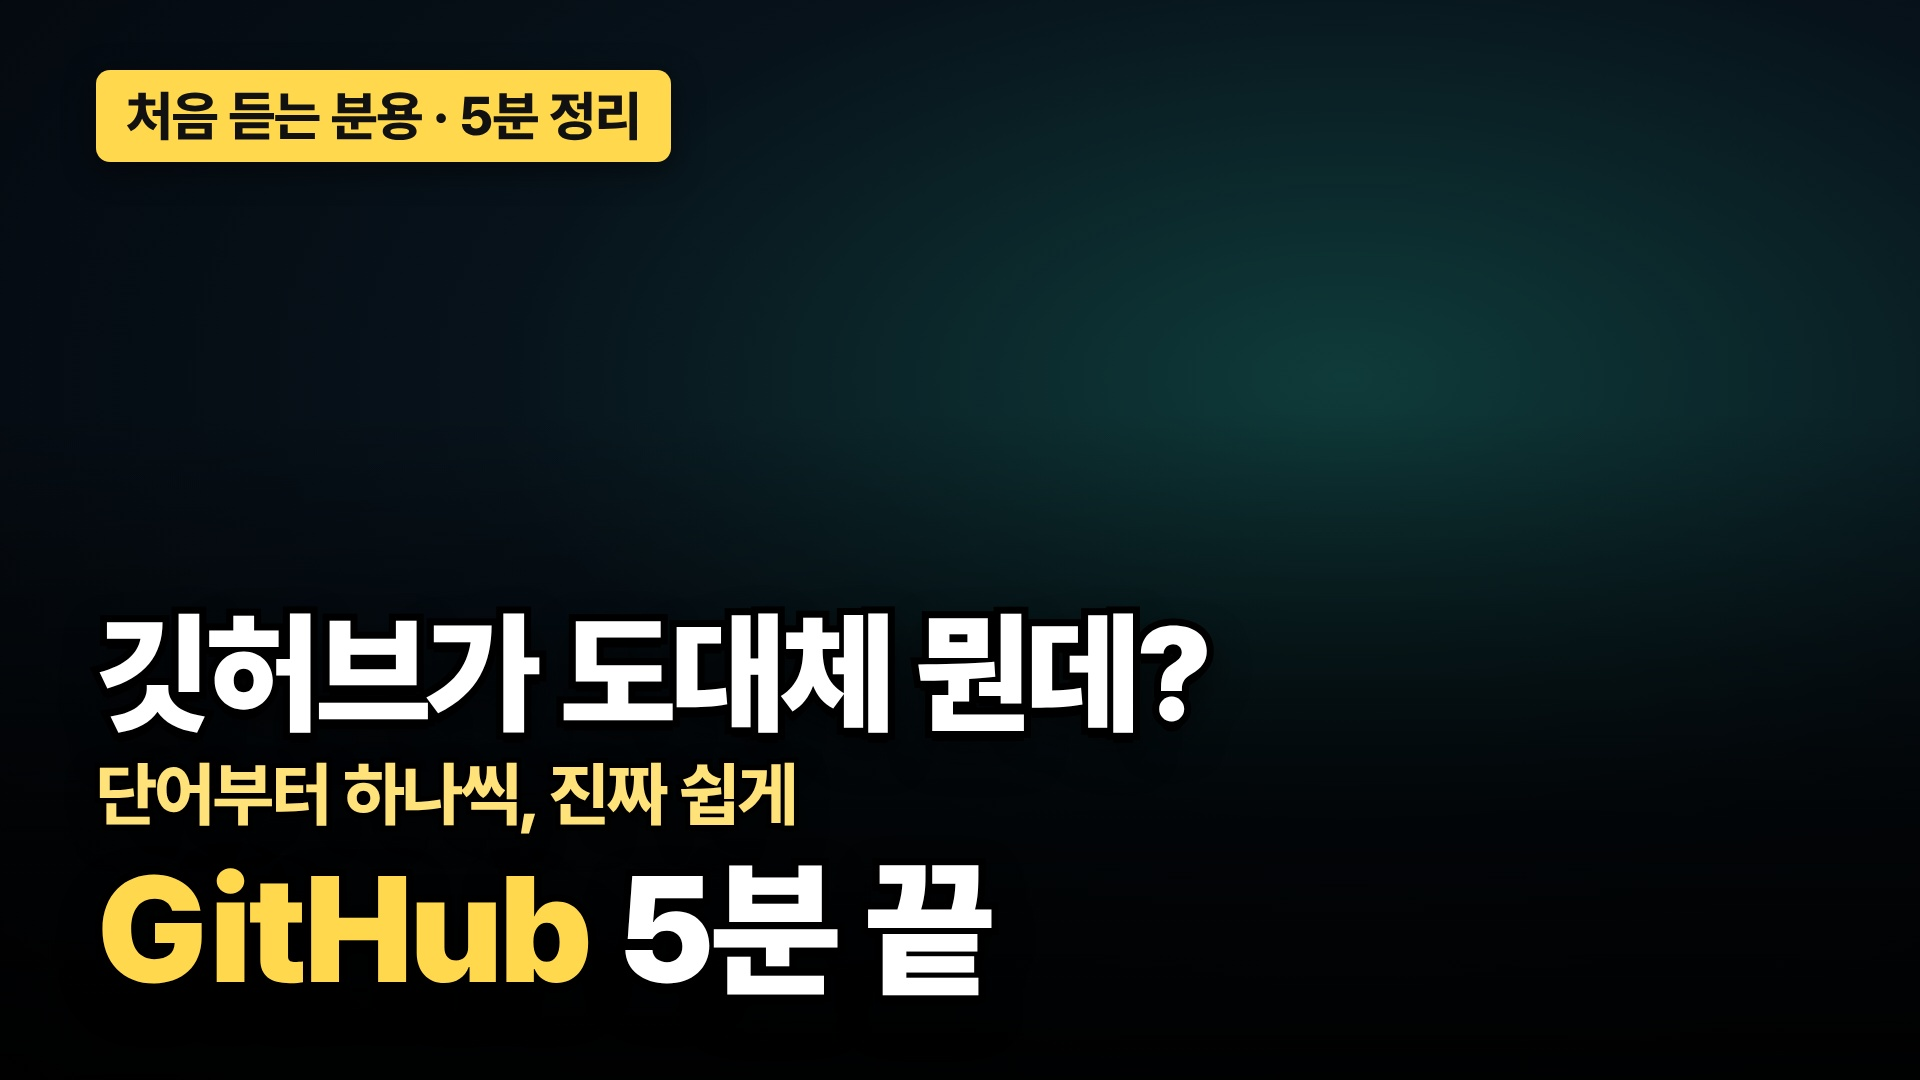
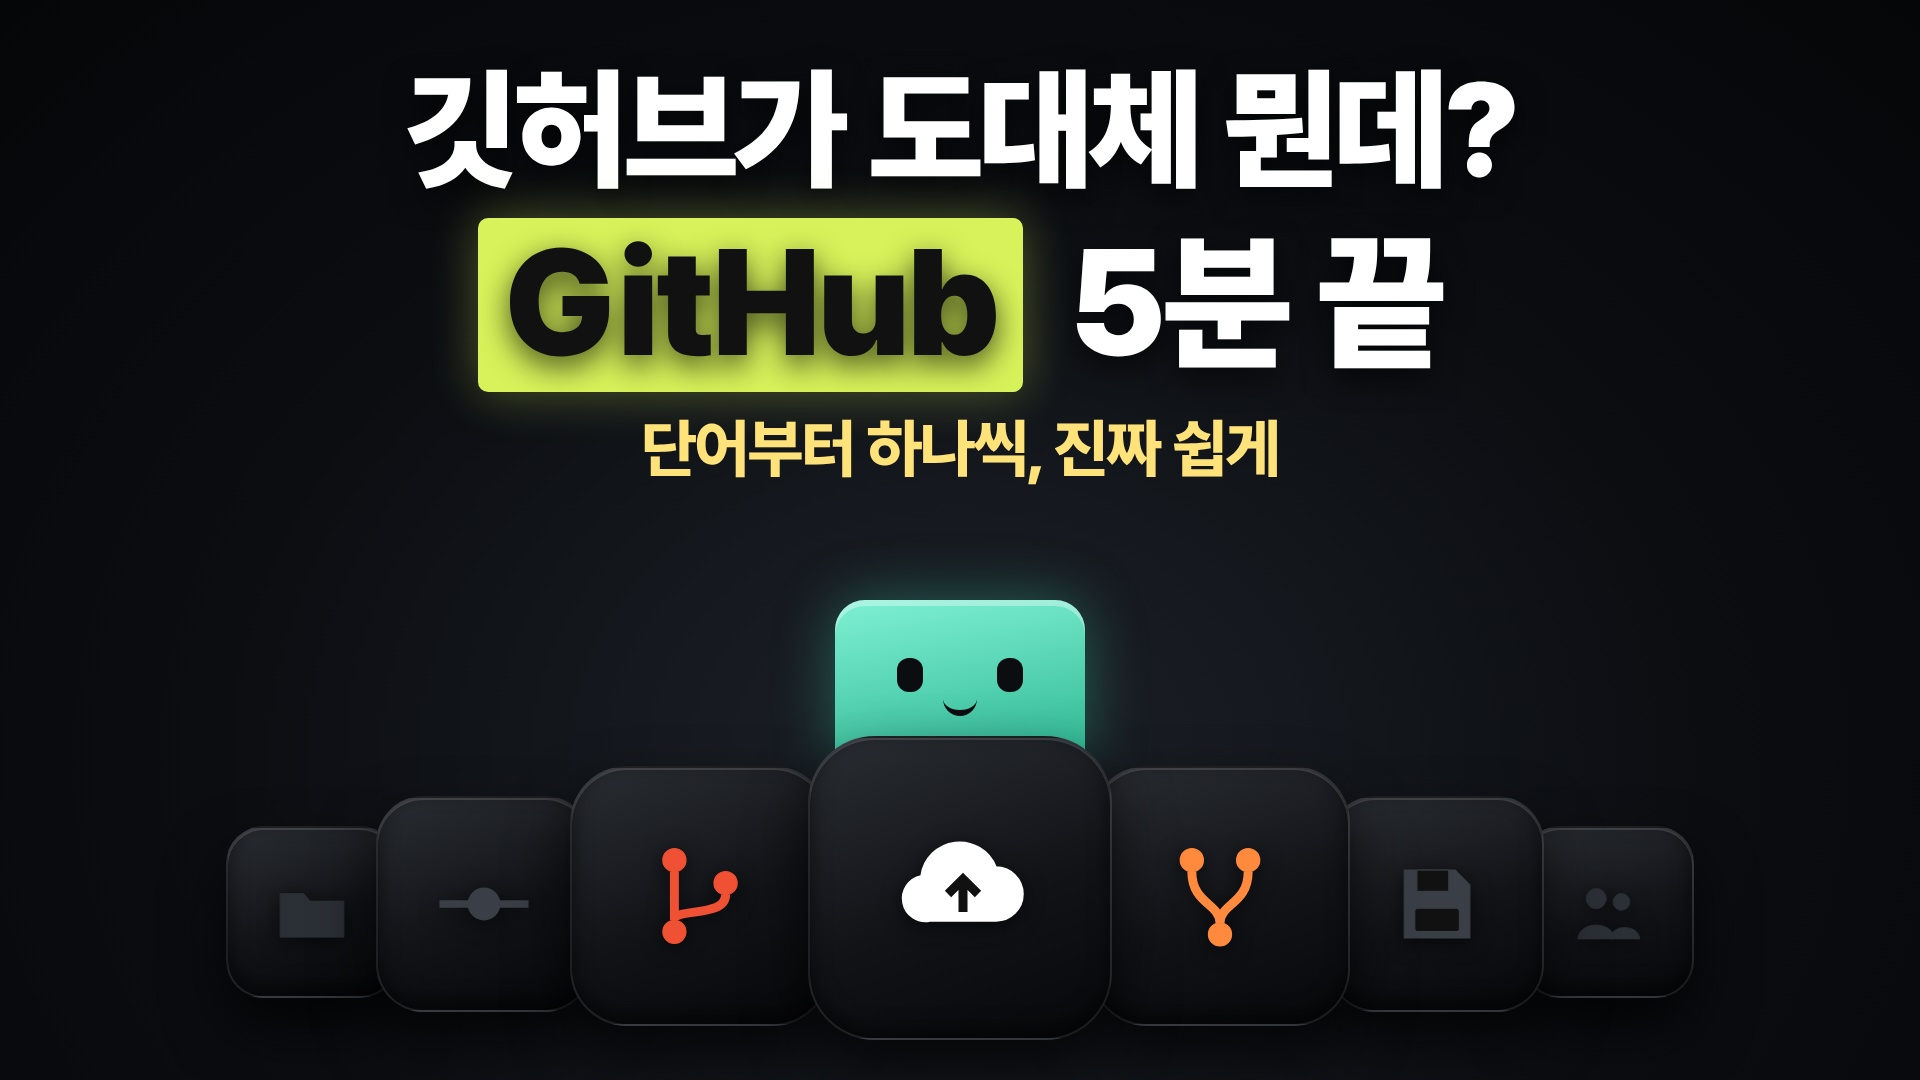
썸네일 layout: tiles(앱 타일 줄 + 형광 상자 제목 + 원본 마스코트, 그림 생성 없이) + 깃허브 v3 세트
Claude-Session: https://claude.ai/code/session_01QAwgc5CgfRqDU2a4ySE2yW

diff --git a/facetube/thumbnail.py b/facetube/thumbnail.py
@@ -61,6 +61,62 @@ html,body{{margin:0;width:{W}px;height:{H}px;overflow:hidden;font-family:K,sans-
 </body></html>"""
 
 
+# ── layout: tiles (2026-11-04, 현철님 본보기 'Git과 GitHub' 썸네일 분위기) ──────────────────────────────
+# 어두운 바탕 · 위쪽 가운데 제목(둘째 줄의 [[강조]]는 밝은 형광 상자) · 아래쪽에 반짝이는 검은 앱 타일 줄(가운데가 가장 큼)
+# · 타일 뒤에서 빼꼼 내다보는 원본 마스코트. 실제 로고 대신 직접 그린 아이콘(SVG).
+ICONS = {
+    "branch": '<circle cx="30" cy="22" r="9"/><circle cx="30" cy="78" r="9"/><circle cx="70" cy="40" r="9"/><path d="M30 31v38M70 49c0 18-40 10-40 20" fill="none" stroke-width="7"/>',
+    "commit": '<path d="M8 50h84" stroke-width="7"/><circle cx="50" cy="50" r="15"/>',
+    "cloud": '<path d="M30 72h44a18 18 0 0 0 0-36 26 26 0 0 0-50 6 15 15 0 0 0 6 30z"/><path d="M52 66V44M42 54l10-10 10 10" fill="none" stroke="#111" stroke-width="6"/>',
+    "save": '<path d="M20 18h48l14 14v50H20z"/><rect x="32" y="18" width="30" height="20" fill="#111"/><rect x="30" y="54" width="42" height="22" rx="3" fill="#111"/>',
+    "folder": '<path d="M12 28h28l8 9h40v43H12z"/>',
+    "merge": '<circle cx="28" cy="22" r="9"/><circle cx="72" cy="22" r="9"/><circle cx="50" cy="80" r="9"/><path d="M28 31c0 25 22 25 22 40M72 31c0 25-22 25-22 40" fill="none" stroke-width="7"/>',
+    "people": '<circle cx="36" cy="34" r="12"/><circle cx="66" cy="38" r="10"/><path d="M14 82c2-22 42-22 44 0zM52 82c2-18 34-18 36 0z"/>',
+}
+
+
+def page_tiles(t, accent):
+    import json as _j
+    fonts = (ROOT / "assets" / "fonts").as_uri()
+    tiles = t.get("tiles") or ["folder", "commit", "branch", "cloud", "merge", "save", "people"]
+    colors = t.get("tile_colors") or ["#2B2F36", "#3A3F47", "#F05033", "#FFFFFF", "#FF8A3D", "#3A3F47", "#2B2F36"]
+    n = len(tiles); mid = (n - 1) / 2
+    cells = []
+    for i, (ic, col) in enumerate(zip(tiles, colors)):
+        d = abs(i - mid); sz = int(300 - d * 44); y = int(d * 30); z = 10 - int(d)
+        cells.append(f'<div class="tile" style="width:{sz}px;height:{sz}px;margin-top:{y}px;z-index:{z}">'
+                     f'<svg viewBox="0 0 100 100" width="{int(sz*.5)}" height="{int(sz*.5)}" fill="{col}" stroke="{col}">{ICONS.get(ic, ICONS["commit"])}</svg></div>')
+    l2 = _mk(t.get("line2", ""), accent).replace(f'<span style="color:{accent}">', '<span class="box">')
+    mid_line = f'<span id="lm">{_mk(t["mid"], accent)}</span>' if t.get("mid") else ""
+    return f"""<!doctype html><html><head><meta charset="utf-8"><style>
+@font-face{{font-family:K;font-weight:900;src:url('{fonts}/Pretendard-Black.otf')}}
+@font-face{{font-family:K;font-weight:800;src:url('{fonts}/Pretendard-ExtraBold.otf')}}
+html,body{{margin:0;width:{W}px;height:{H}px;overflow:hidden;font-family:K,sans-serif;background:radial-gradient(ellipse at 50% 70%,#1d2128 0%,#0b0d11 55%,#050608 100%)}}
+#top{{position:absolute;left:0;right:0;top:56px;text-align:center}}
+.l{{display:inline-block;font-weight:900;color:#fff;white-space:nowrap;letter-spacing:-4px;line-height:1.12;text-shadow:0 10px 30px rgba(0,0,0,.7)}}
+#top>div{{display:block}} #top>div>span.w{{display:inline-block}}
+#l1{{font-size:{t.get('size1', 132)}px}} #l2{{font-size:{t.get('size2', 150)}px;margin-top:14px}}
+.box{{display:inline-block;background:{accent};color:#111;padding:0 26px 6px;border-radius:10px;margin-right:18px;box-shadow:0 0 50px {accent}55}}
+#lm{{display:inline-block;font-weight:800;font-size:{t.get('size_mid', 64)}px;color:#FFE27A;letter-spacing:-2px;margin-top:18px;white-space:nowrap}}
+#row{{position:absolute;left:0;right:0;bottom:40px;display:flex;justify-content:center;align-items:flex-start}}
+.tile{{position:relative;margin-left:-22px;border-radius:22%;display:flex;align-items:center;justify-content:center;
+  background:linear-gradient(160deg,#2a2d33 0%,#111317 55%,#07080a 100%);border:2px solid rgba(255,255,255,.08);
+  box-shadow:0 30px 60px rgba(0,0,0,.75),inset 0 2px 0 rgba(255,255,255,.14),inset 0 -8px 20px rgba(0,0,0,.6)}}
+.tile:first-child{{margin-left:0}}
+.tile svg{{filter:drop-shadow(0 4px 10px rgba(0,0,0,.6))}}
+#pal{{position:absolute;left:50%;bottom:{40+280}px;transform:translateX(-50%);width:250px;height:160px;border-radius:30px 30px 10px 10px;
+  background:linear-gradient(170deg,#7ff0d4,#2fb894);box-shadow:inset 0 6px 0 rgba(255,255,255,.35),0 0 60px rgba(63,224,181,.35)}}
+#pal i{{position:absolute;top:58px;width:26px;height:34px;background:#0b0d11;border-radius:12px}}
+#pal i:first-child{{left:62px}} #pal i:last-child{{right:62px}}
+#pal b{{position:absolute;top:96px;left:50%;transform:translateX(-50%);width:34px;height:14px;border-bottom:6px solid #0b0d11;border-radius:0 0 20px 20px}}
+</style></head><body>
+<div id="top"><div><span class="l" id="l1">{_mk(t.get('line1', ''), accent)}</span></div><div><span class="l" id="l2">{l2}</span></div><div>{mid_line}</div></div>
+{'<div id="pal"><i></i><b></b><i></i></div>' if t.get('mascot', True) else ''}
+<div id="row">{''.join(cells)}</div>
+<script>for(const id of ['l1','l2','lm']){{const e=document.getElementById(id);if(!e)continue;let f=parseFloat(getComputedStyle(e).fontSize);while(e.scrollWidth>{W - 160}&&f>60){{f-=4;e.style.fontSize=f+'px'}}}}</script>
+</body></html>"""
+
+
 def make(proj, out_dir, proj_dir=".", log=print):
     t = proj.get("thumbnail")
     if not t:
@@ -70,7 +126,7 @@ def make(proj, out_dir, proj_dir=".", log=print):
     from playwright.sync_api import sync_playwright
     bg = t.get("bg")
     bgp = None
-    if bg:
+    if bg and t.get("layout") != "tiles":
         for base in (Path(proj_dir), ROOT):
             if (base / bg).exists():
                 bgp = (base / bg).resolve()
@@ -78,7 +134,10 @@ def make(proj, out_dir, proj_dir=".", log=print):
         if not bgp:
             log(f"  ⚠ thumbnail: 배경 그림 {bg} 없음 → 기본 네온 배경")
     html = (Path(out_dir) / "_thumb.html").resolve()
-    html.write_text(page(t, bgp.as_uri() if bgp else None), encoding="utf-8")
+    if t.get("layout") == "tiles":
+        html.write_text(page_tiles(t, t.get("accent", "#D7F25A")), encoding="utf-8")
+    else:
+        html.write_text(page(t, bgp.as_uri() if bgp else None), encoding="utf-8")
     exe = "/opt/pw-browsers/chromium" if Path("/opt/pw-browsers/chromium").exists() else None
     with sync_playwright() as p:
         b = p.chromium.launch(**({"executable_path": exe} if exe else {}))

diff --git a/.claude/skills/video-release/SKILL.md b/.claude/skills/video-release/SKILL.md
@@ -41,6 +41,10 @@ thumbnail:
 ```
 
 ## 썸네일 그림 만들기
+- 모양 두 가지(대본 `thumbnail.layout`):
+  - 기본(그림형): 위 3D 일러스트(AI, 글자 없음) + 아래 굵은 두·세 줄 제목.
+  - `layout: tiles`(2026-11-04 현철님 본보기 'Git과 GitHub'): 어두운 바탕 · 위쪽 가운데 제목(둘째 줄 [[강조]]는 형광 상자) · 아래 반짝이는 검은 앱 타일 줄 + 뒤에서 빼꼼 보는 원본 마스코트. 그림 생성 없이 만들어 크레딧이 들지 않는다. `tiles: [folder, commit, branch, cloud, merge, save, people]` 로 아이콘을 고른다(실제 로고 대신 직접 그린 아이콘).
+- 라벨(`tag`)은 빼도 된다(현철님: 깃허브 썸네일에서 삭제 요청).
 - 본보기 모양: 위쪽 3D 일러스트(귀여운 캐릭터 + 화면/주제 물건), 아래쪽 아주 굵은 두 줄 제목, 검은 테두리.
 - 그림은 AI 로 **글자·로고·워터마크 없이** 만든다(프롬프트에 "no text, no letters, no logos, no watermark", 아래 35%는 비워 두기). 글자는 thumbnail.py 가 폰트(Pretendard Black)로 얹는다.
 - 다른 채널 캐릭터·실제 회사 로고를 베끼지 않는다. 워터마크가 찍힌 그림은 쓰지 않는다(지우지도 않는다).

diff --git a/release/깃허브_정의_5분/버전기록.md b/release/깃허브_정의_5분/버전기록.md
@@ -4,3 +4,4 @@
 |---|---|---|---|---|
 | v1 | 2026-11-04 | 4:41 | 음성불일치 7 · 끊김 0 · 멈춤 0 · 검은화면 0 · 개인정보 0 · 자막 0 | 첫 풀영상: 새 모션 4종(files·timeline·split·hook fx), Octoverse 2026 최신 숫자 |
 | v2 | 2026-11-04 | 4:41 | 음성불일치 2 · 끊김 0 · 멈춤 0 · 검은화면 0 · 개인정보 0 · 자막 0 | '순서는 이래요'(→순수는 일해요) 발음 고침, 검수가 깃허브[기터브]를 같은 말로 보게(rules/heard_as.json) |
+| v3 | 2026-11-04 | 4:41 | 음성불일치 2 · 끊김 0 · 멈춤 0 · 검은화면 0 · 개인정보 0 · 자막 0 | 썸네일을 앱 타일 분위기(layout: tiles)로, 왼쪽 위 라벨 삭제 — 영상·텍스트는 v2와 같음 |
